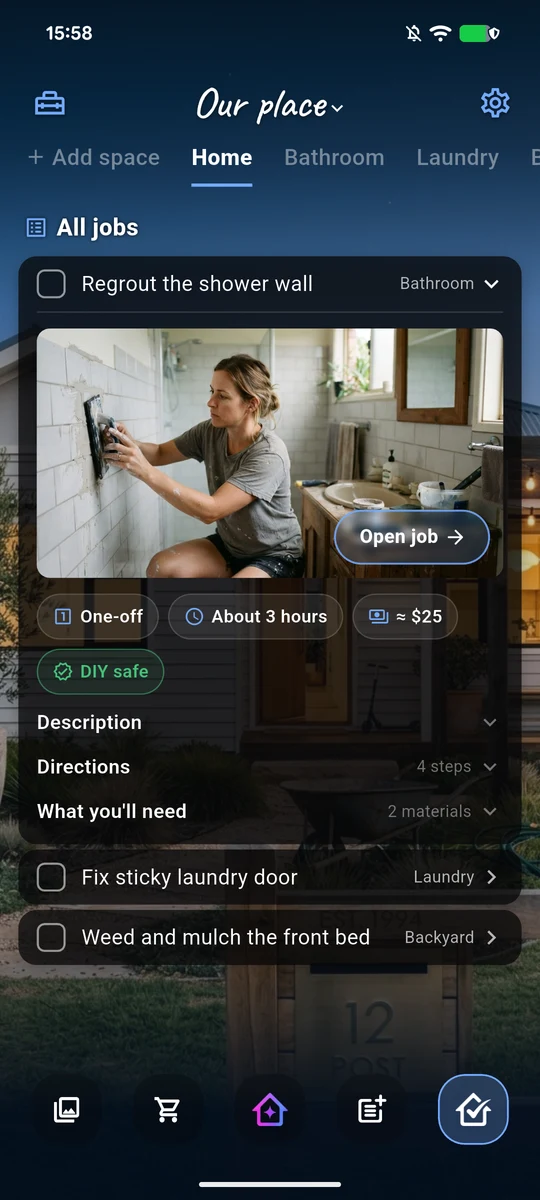
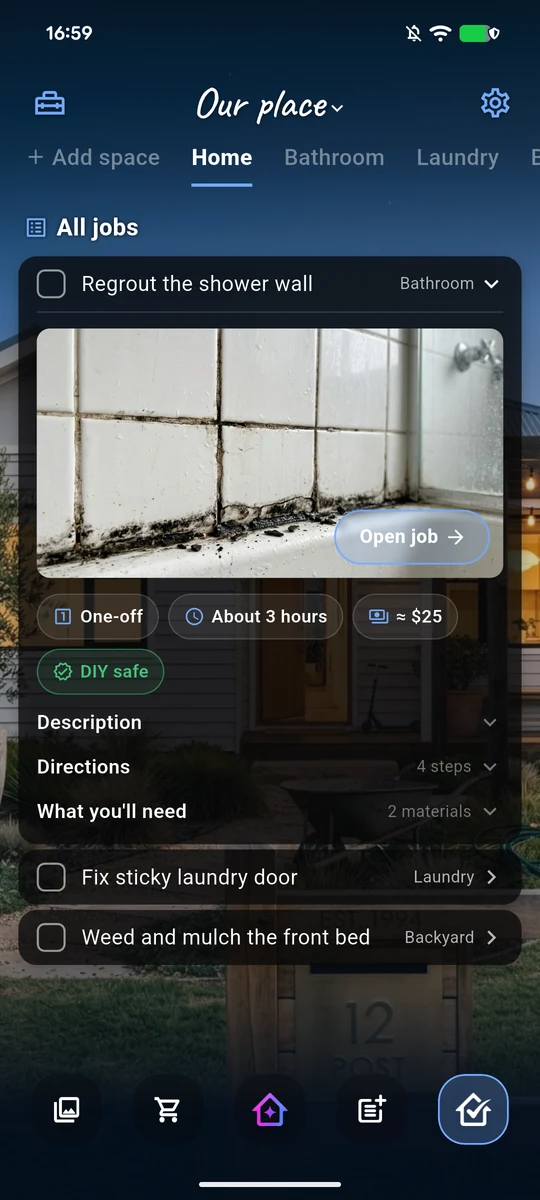
Ads: 20 more generated job photos, so every open job in an ad has its own photo

Changed region(s): [[0.0593, 0.2467, 0.9481, 0.4933], [0.1481, 0.0, 0.1778, 0.0308], [0.0889, 0.0, 0.1185, 0.0308]]

diff --git a/scripts/ads/job-photo-prompts.md b/scripts/ads/job-photo-prompts.md
@@ -29,23 +29,23 @@ Prompt frame (swap in the subject):
 | sagging-gate (done) | photo-plan-extra | a timber side gate that has dropped on its hinges and drags on the concrete path |
 | bookcase-unfixed (done) | inventory-end | a tall white bookcase full of books and toys against the wall of a kid's room |
 | cracked-splashback-tile (done) | shared-inline | a cracked white tile in a kitchen splashback beside a kettle, close up |
-| water-stain-ceiling | quote-brief-inline, quote-brief-end | a brown water stain ring on a white ceiling in the corner of a bedroom |
-| crooked-cupboard-door | directions-inline, no-time-end, howto-hub-end, diy-nsw-extra | a kitchen cupboard door hanging slightly crooked, open enough to show its hinge |
-| sticking-drawer | quick-jobs-extra | a timber kitchen drawer stuck half open and sitting crooked |
-| loose-skirting | diy-victoria-inline, diy-victoria-end | a skirting board pulling away from the wall in a hallway with timber floors, the gap visible |
-| sash-window | diy-tasmania-inline, diy-tasmania-end | an old timber sash window with flaking paint and visible gaps around the sashes |
-| broken-sprinkler | diy-wa-inline, diy-wa-end | a broken pop-up lawn sprinkler head spraying water sideways on a suburban lawn |
-| exhaust-fan | diy-nsw-inline, mould-extra | a dusty, yellowed bathroom ceiling exhaust fan with a cracked cover |
-| hallway-light | nz-home-inline | an old dated light fitting on the hallway ceiling of a timber villa |
-| garden-tap-drip | diy-queensland-inline, diy-queensland-end | a brass garden tap dripping on an outside wall, a wet patch on the paving beneath |
-| back-step-board | features-hub-end | a cracked timber board on a back door step, split along the grain |
-| shed-door | shared-end | an old garden shed with its timber door hanging off the top hinge |
-| torn-screen-door | diy-wa-extra | a sliding fly screen door with torn mesh |
-| loose-door-handle | diy-tasmania-extra | a loose, tarnished old handle on a painted front door, close up |
-| picture-rail | diy-victoria-extra | a bare wall with a timber picture rail in a period home, framed pictures leaning against the wall on the floor |
-| dusty-ceiling-fan | diy-queensland-extra | ceiling fan blades seen from below with a thick line of dust along their edges |
-| shower-grout | directions-extra | shower wall tiles with dark, crumbling grout lines, close up |
-| broken-paling | voice-inline | a timber paling fence with one paling snapped and hanging |
-| garage-wall-crack | verdict-inline | a stepped crack running through the mortar of a brick garage wall |
-| laundry-tap | no-time-inline, dripping-tap-extra | an old laundry tap dripping into a stainless steel laundry tub |
-| splashback-bare | directions-end | a bare kitchen wall above a benchtop ready to be tiled, a box of tiles sitting on the bench |
+| water-stain-ceiling (done) | quote-brief-inline, quote-brief-end | a brown water stain ring on a white ceiling in the corner of a bedroom |
+| crooked-cupboard-door (done) | directions-inline, no-time-end, howto-hub-end, diy-nsw-extra | a kitchen cupboard door hanging slightly crooked, open enough to show its hinge |
+| sticking-drawer (done) | quick-jobs-extra | a timber kitchen drawer stuck half open and sitting crooked |
+| loose-skirting (done) | diy-victoria-inline, diy-victoria-end | a skirting board pulling away from the wall in a hallway with timber floors, the gap visible |
+| sash-window (done) | diy-tasmania-inline, diy-tasmania-end | an old timber sash window with flaking paint and visible gaps around the sashes |
+| broken-sprinkler (done) | diy-wa-inline, diy-wa-end | a broken pop-up lawn sprinkler head spraying water sideways on a suburban lawn |
+| exhaust-fan (done) | diy-nsw-inline, mould-extra | a dusty, yellowed bathroom ceiling exhaust fan with a cracked cover |
+| hallway-light (done) | nz-home-inline | an old dated light fitting on the hallway ceiling of a timber villa |
+| garden-tap-drip (done) | diy-queensland-inline, diy-queensland-end | a brass garden tap dripping on an outside wall, a wet patch on the paving beneath |
+| back-step-board (done) | features-hub-end | a cracked timber board on a back door step, split along the grain |
+| shed-door (done) | shared-end | an old garden shed with its timber door hanging off the top hinge |
+| torn-screen-door (done) | diy-wa-extra | a sliding fly screen door with torn mesh |
+| loose-door-handle (done) | diy-tasmania-extra | a loose, tarnished old handle on a painted front door, close up |
+| picture-rail (done) | diy-victoria-extra | a bare wall with a timber picture rail in a period home, framed pictures leaning against the wall on the floor |
+| dusty-ceiling-fan (done) | diy-queensland-extra | ceiling fan blades seen from below with a thick line of dust along their edges |
+| shower-grout (done) | directions-extra | shower wall tiles with dark, crumbling grout lines, close up |
+| broken-paling (done) | voice-inline | a timber paling fence with one paling snapped and hanging |
+| garage-wall-crack (done) | verdict-inline | a stepped crack running through the mortar of a brick garage wall |
+| laundry-tap (done) | no-time-inline, dripping-tap-extra | an old laundry tap dripping into a stainless steel laundry tub |
+| splashback-bare (done) | directions-end | a bare kitchen wall above a benchtop ready to be tiled, a box of tiles sitting on the bench |
